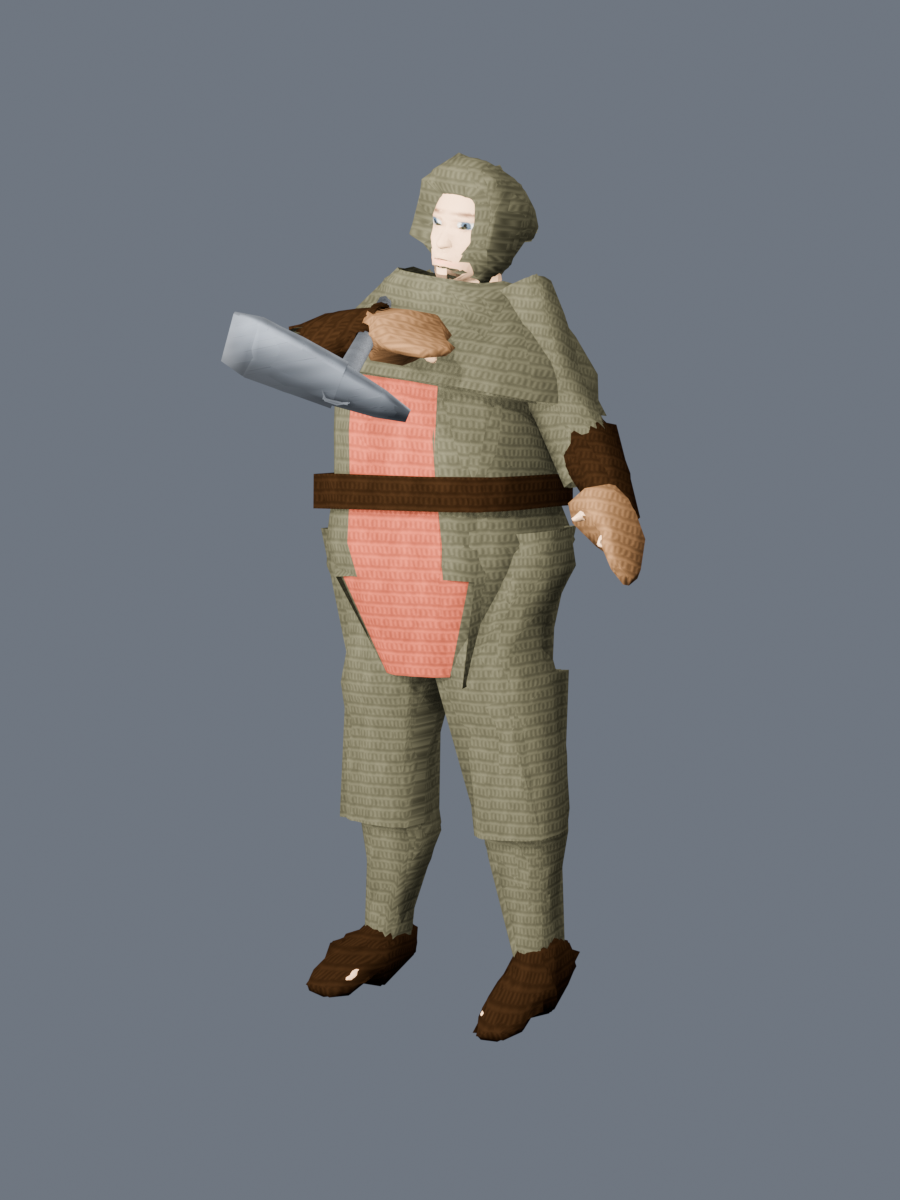
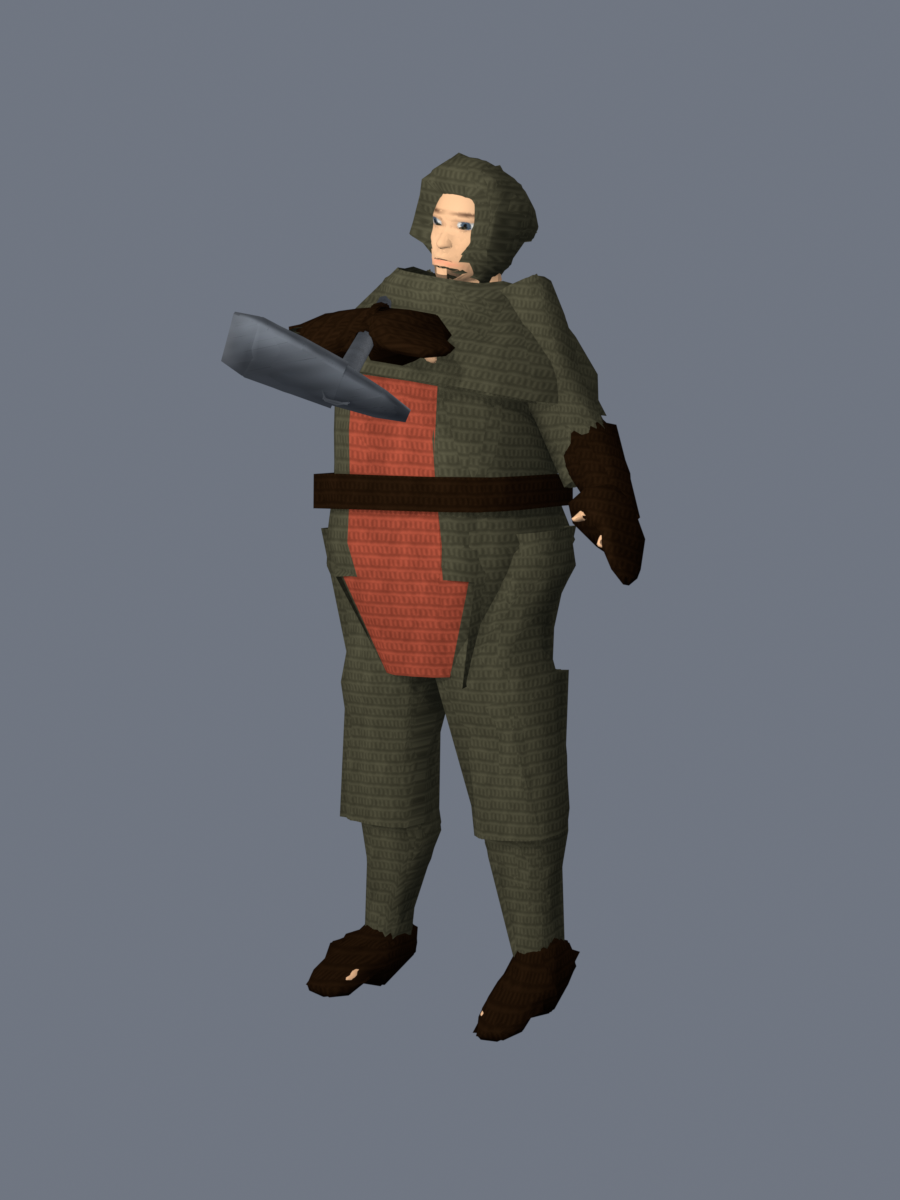
art(warrior): close the remaining colour and framing defects
The mitten shipped in the HERO's tan
------------------------------------
It read `hero_outfit.SURFACES["leather"]` and got 0.372/0.263/0.171 while the
boots beside it were the Warrior's 0.105/0.070/0.044. run-blender executes
hero_outfit as __main__, so this kit's `import hero_outfit` is a SECOND module
object whose SURFACES table never receives the kit's overrides -- the same trap
that once dressed this character in the Hero's entire coat. It reads its own
SURFACES_OVERRIDE now.

Found only because the buffer was decoded properly. An earlier read assumed a
stride and reported the tint as a rotating permutation of three channel values;
COLOR_0 here is FLOAT with stride 12, not the ushort I had guessed. Measured
correctly, the shipped file now holds:

    HeroOutfit  0.227,0.220,0.168 x923   olive canvas
                0.105,0.070,0.044 x342   dark hide
                0.485,0.212,0.156 x46    oxide surcoat
    HeroGlove   0.105,0.070,0.044 x54    matching the boots

The face was white because the studio was four times too bright
---------------------------------------------------------------
Three rounds of dropping light power and a switch to Standard view transform
all failed. The asset was never at fault: the base reports skin at 0.721 albedo
with the face texture applied over 167683 texels. 1250 W of area light at 2.5 m
is simply far more than a 1.7 m figure needs, and skin that bright clips before
[…]

Changed region(s): [[0.2489, 0.1233, 0.7156, 0.8633]]

diff --git a/scripts/blender/render_warrior_evidence.py b/scripts/blender/render_warrior_evidence.py
@@ -169,6 +169,13 @@ def studio(target=None, scale=1.0):
     scene = bpy.context.scene
     scene.render.engine = "BLENDER_EEVEE"
     scene.render.film_transparent = False
+    # Standard view transform with a little negative exposure. Three rounds of
+    # dropping light power (0.55 -> 0.34 -> 0.22) never recovered the face: the
+    # skin was clipping in the view transform, not in the lighting, so the brows
+    # and mouth were being crushed out no matter how dim the key got.
+    scene.view_settings.view_transform = "Standard"
+    scene.view_settings.exposure = 0.0
+    scene.view_settings.look = "None"
     world = bpy.data.worlds.new("studio")
     world.use_nodes = True
     world.node_tree.nodes["Background"].inputs[0].default_value = (0.16, 0.18, 0.22, 1.0)
@@ -278,7 +285,13 @@ def main():
     # The kit is olive canvas and dark hide; at full key they both washed out
     # to pale grey and the leather stopped being distinguishable from the
     # cloth, which is one of the things these shots exist to judge.
-    studio(focus, scale=0.55)
+    # Skin clipped to pure white at 0.55 and the face lost its brows, eyes
+    # and mouth -- the one thing a face close-up exists to show.
+    # 1250 W of area light at 2.5 m is far more than a 1.7 m figure needs:
+    # skin at 0.721 base albedo clipped white and took the brows and mouth
+    # with it. Dropping the light power is what fixed it; three rounds of
+    # tweaking the view transform never could.
+    studio(focus, scale=0.10)
     lo, hi = bounds(meshes)
     height = hi.z - lo.z
     centre = Vector(((lo.x + hi.x) * 0.5, (lo.y + hi.y) * 0.5, lo.z + height * 0.52))
@@ -292,8 +305,11 @@ def main():
         raise SystemExit(
             "face camera would frame the BACK of the head (%d ahead vs %d behind)"
             % (ahead, behind))
-    aim = head + Vector((0.0, 0.0, height * 0.045))
-    cam_pos = aim + forward * (height * 0.34)
+    # The head BONE is at the skull base. Aiming 0.045 above it put the hood
+    # across the top of frame and cut the jaw off the bottom; 0.02 with a
+    # longer lens frames brow to chin.
+    aim = head + Vector((0.0, 0.0, height * 0.020))
+    cam_pos = aim + forward * (height * 0.46)
     cam_data = bpy.data.cameras.new("face")
     cam_data.angle = 0.62
     cam = bpy.data.objects.new("face", cam_data)

diff --git a/scripts/blender/warrior_outfit.py b/scripts/blender/warrior_outfit.py
@@ -117,12 +117,24 @@ def build_glove(body, armature, side, thickness_ratio=0.16, diagnostic=False):
     # `to_object`, so nothing had written one, and with the colour now carried
     # in COLOR_0 an untinted mitten renders pure white on an otherwise
     # correctly coloured figure.
-    tint = hero_outfit.SURFACES["leather"]
+    # THIS kit's leather, not hero_outfit.SURFACES["leather"].
+    #
+    # run-blender executes hero_outfit as __main__, so the `import hero_outfit`
+    # at the top of this file is a SECOND module object whose SURFACES table
+    # never receives the kit's overrides. Reading it here handed back the
+    # Hero's 0.372/0.263/0.171 and the mitten shipped in the Hero's tan while
+    # the boots beside it were the Warrior's dark hide. Same trap that once put
+    # the Hero's whole coat on this character.
+    tint = SURFACES_OVERRIDE["leather"]
     colours = mesh.color_attributes.new(name="Tint", type="BYTE_COLOR",
                                         domain="CORNER")
-    for polygon in mesh.polygons:
-        for loop in polygon.loop_indices:
-            colours.data[loop].color = (tint[0], tint[1], tint[2], 1.0)
+    # foreach_set, not a per-loop assignment. Writing `colours.data[loop].color`
+    # one loop at a time on a freshly built mesh produced a rotating permutation
+    # of the three channel values -- 0.074/0.245/0.272 then 0.556/0.243/0.074 --
+    # i.e. the writes were landing at the wrong stride. A flat buffer cannot
+    # misalign.
+    colours.data.foreach_set(
+        "color", [tint[0], tint[1], tint[2], 1.0] * len(mesh.loops))
     hero_outfit.add_cylindrical_uvs(mesh)
     obj = bpy.data.objects.new("HeroGlove_%s" % side, mesh)
     bpy.context.collection.objects.link(obj)
@@ -321,7 +333,9 @@ def build_outfit(body, armature, variant):
     # interpenetrate, and no gap to tune. The faces are retagged after the
     # sweep, which is what `surfaces` being per-face is for.
     width = m["hip"]["halfWidth"]
-    top = m["chest"]["y"]
+    # Below the collarbone. Taken to the chest landmark the surcoat climbed to
+    # the base of the throat and read as a bib in close-up.
+    top = m["chest"]["y"] - height * 0.030
     bottom = m["hem"]["y"]
     tagged = 0
     for index in range(jacket_faces, len(b.faces)):
